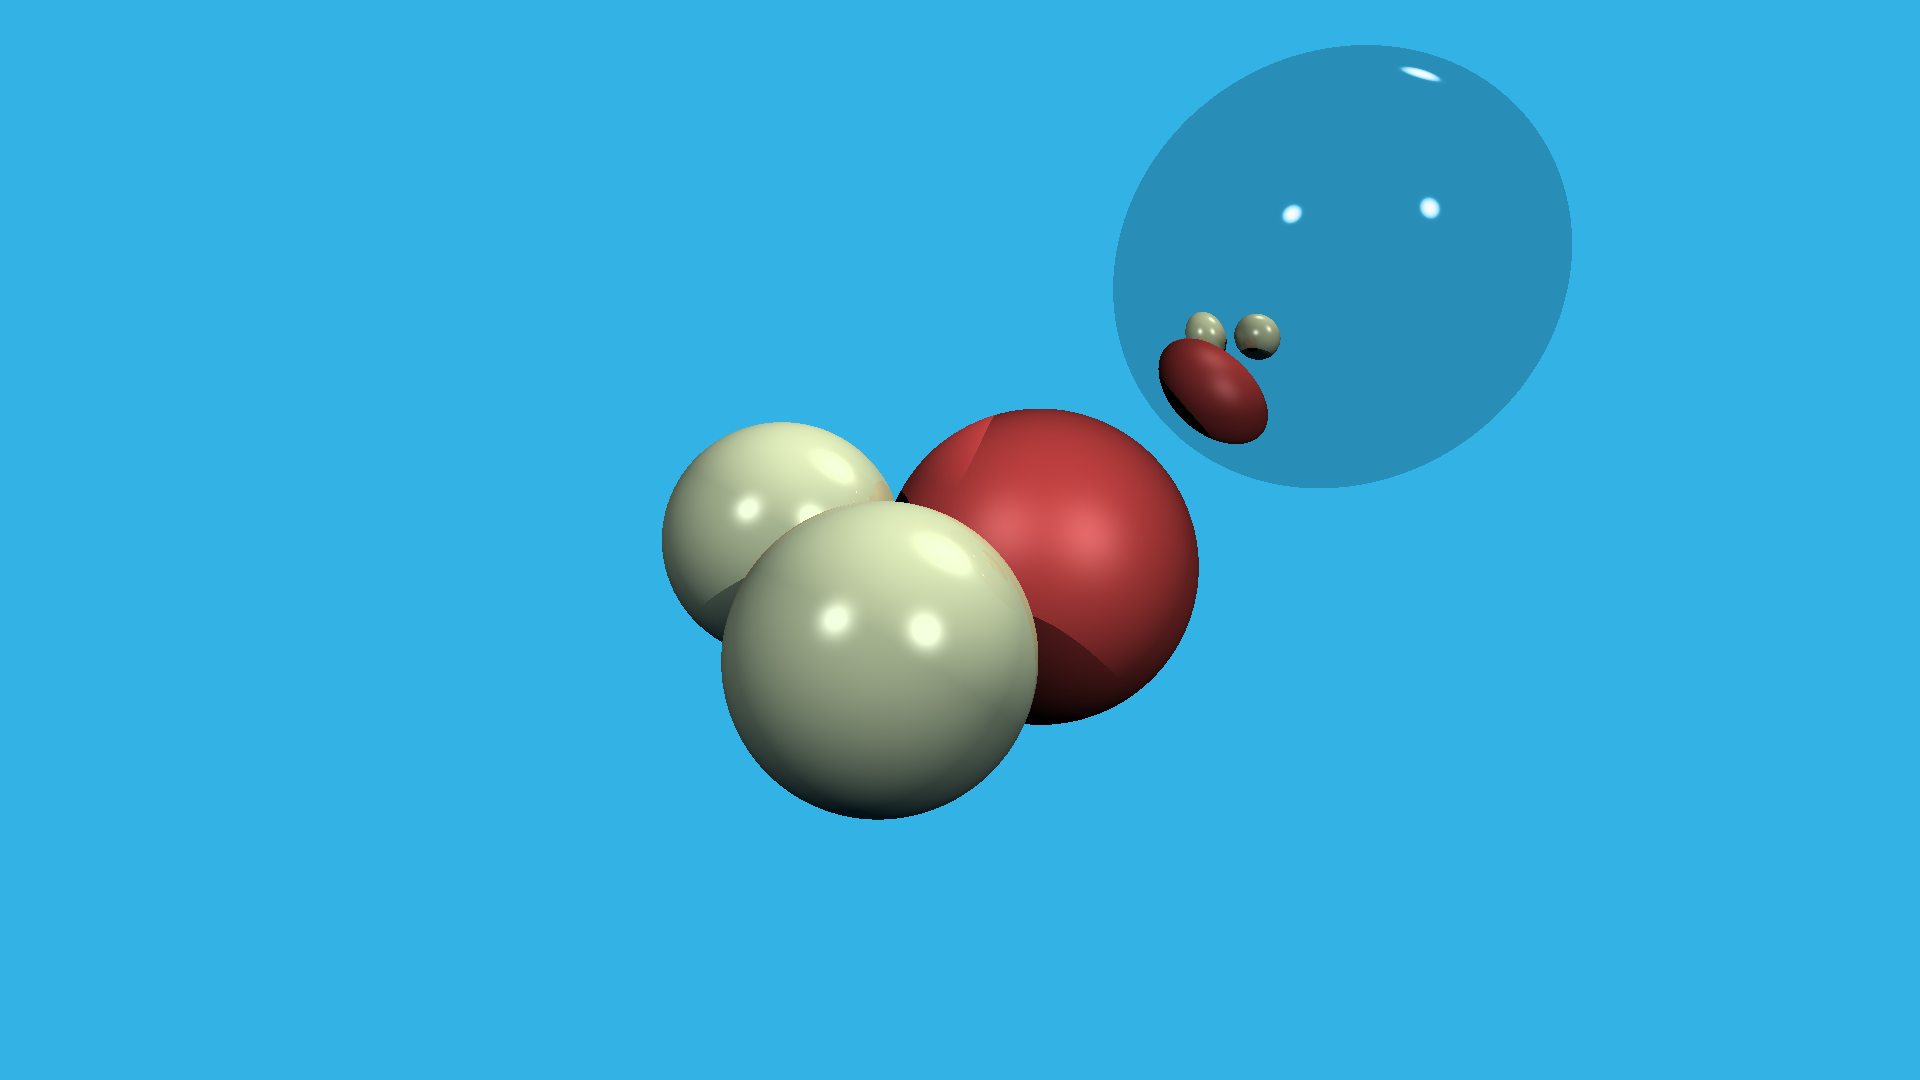
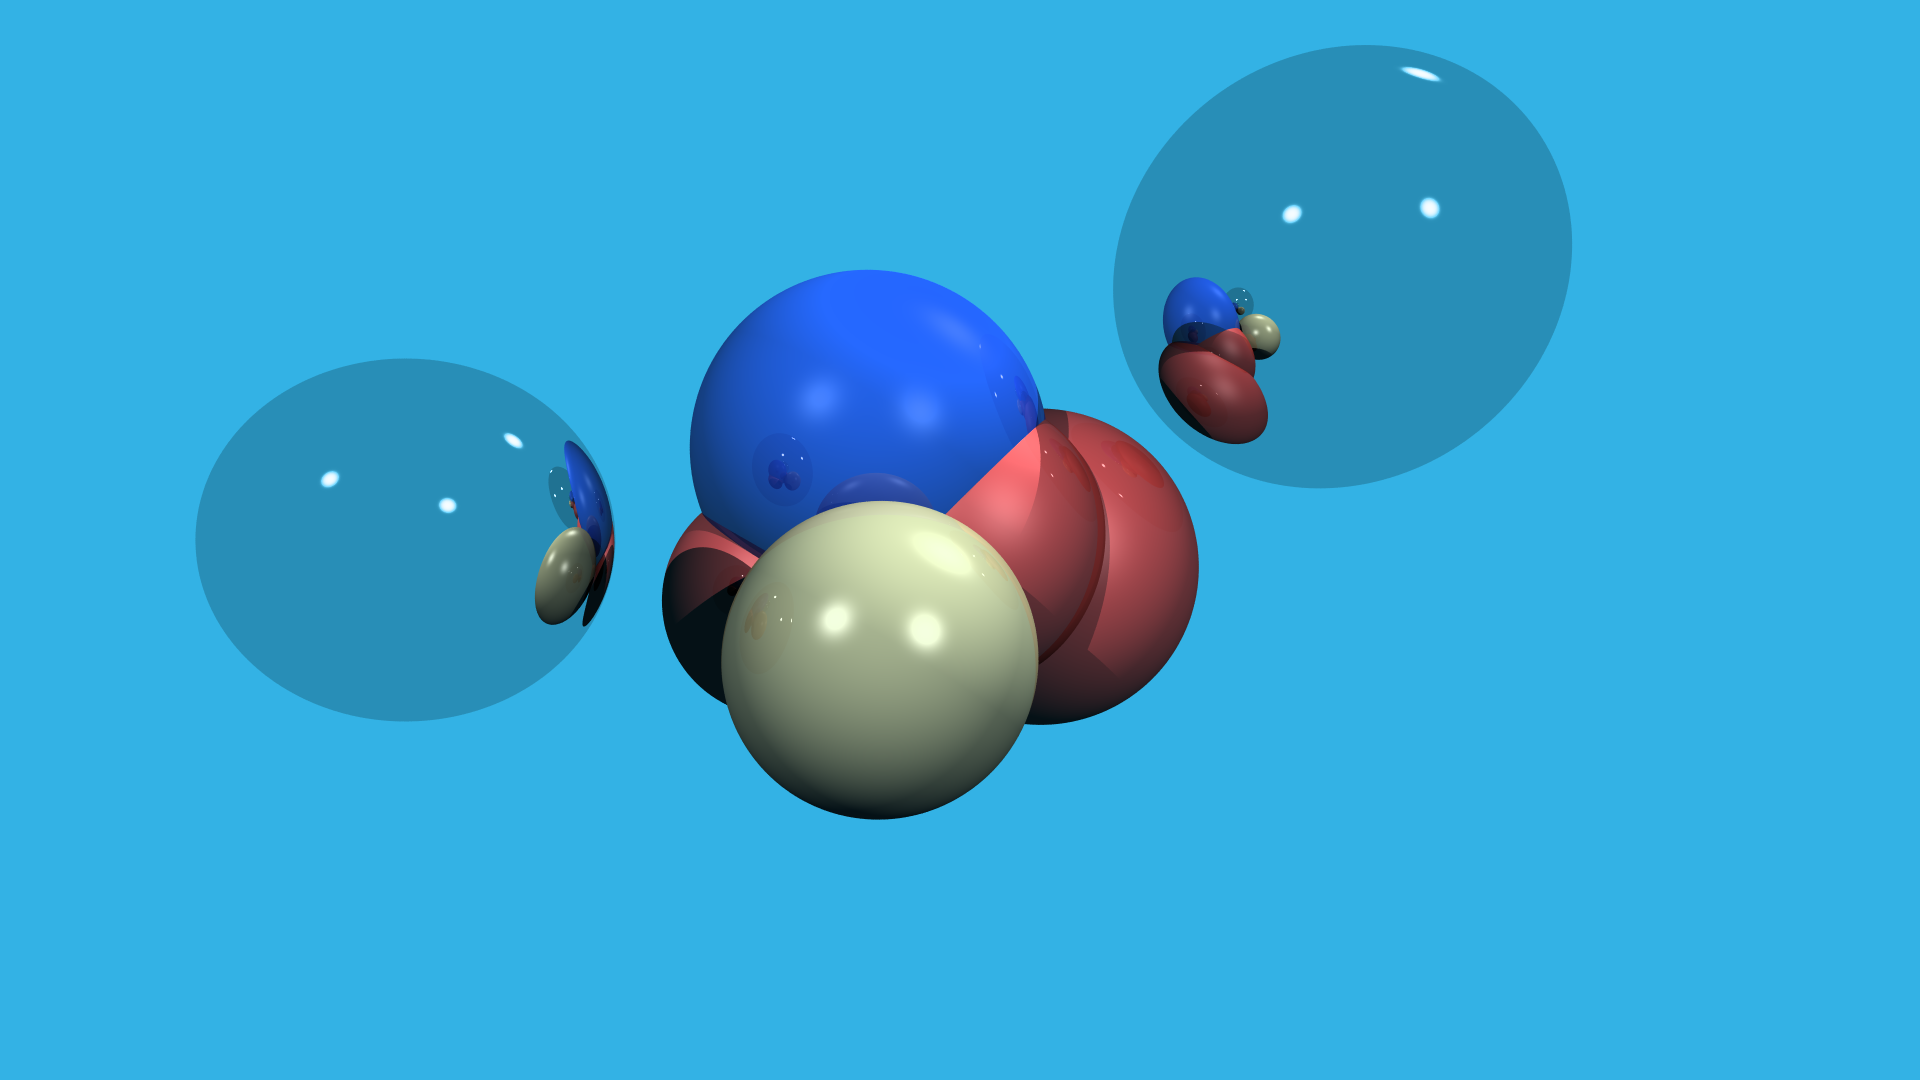
Implemented anti-aliazing (last commit failed)

Changed region(s): [[0.0938, 0.2444, 0.5938, 0.6722], [0.5938, 0.2444, 0.6562, 0.3361]]

diff --git a/src/lib/scene.rs b/src/lib/scene.rs
@@ -1,4 +1,13 @@
 use std::fs;
+// For reading and opening files
+use std::path::Path;
+use std::fs::File;
+use std::io::BufWriter;
+
+
+use png;
+use rand::Rng;
+
 
 use crate::lib::{
     vec3::Vec3,
@@ -11,6 +20,7 @@ pub struct Scene {
     width: usize,
     height: usize,
     rays_origin: Vec3,
+    rays_per_pixel: usize,
     max_recurtion: usize,
     fov: f64,
     objects: Vec<Box<dyn Hitable + Sync>>,
@@ -18,11 +28,12 @@ pub struct Scene {
 }
 
 impl Scene {
-    pub fn new(width: usize, height: usize, rays_origin: Vec3, max_recurtion: usize, fov: f64) -> Scene {
+    pub fn new(width: usize, height: usize, rays_origin: Vec3, rays_per_pixel: usize, max_recurtion: usize, fov: f64) -> Scene {
         Scene {
             width,
             height,
             rays_origin,
+            rays_per_pixel,
             max_recurtion,
             fov,
             objects: vec![],
@@ -38,23 +49,67 @@ impl Scene {
         self.lights.push(light)
     }
 
-    pub fn render(&self, path: &str) {
-        let mut buffer = format!("P3\n{} {}\n255\n", self.width, self.height);
+    pub fn render_as_png(&self, path: &str) {
+        let data = self.render();
 
+        let path = Path::new(path);
+        let file = File::create(path).unwrap();
+        let ref mut w = BufWriter::new(file);
+
+        let mut encoder = png::Encoder::new(w, self.width as u32, self.height as u32); 
+        encoder.set_color(png::ColorType::RGB);
+        encoder.set_depth(png::BitDepth::Eight);
+        let mut writer = encoder.write_header().unwrap();
+
+        writer.write_image_data(&data).unwrap();
+    }
+
+    pub fn render_as_ppm(&self, path: &str) {
+        let data = self.render();
+        let mut buffer = format!("P3\n{} {}\n255\n", self.width, self.height);
+        let _: Vec<_> = data.chunks(3).map(|chunk| buffer.push_str(format!(
+                "{} {} {}\n", 
+                chunk[0], 
+                chunk[1], 
+                chunk[2]
+            ).as_str())).collect();
+
+        fs::write(path, buffer).expect("Unable to find file location");
+    }
+
+    fn render(&self) -> Vec<u8> {
+        let mut data = vec![0; 0];
+        
+        let half_fov_tan = (self.fov / 2.0).tan();
         for j in 0..self.height {
             if (self.height - j) % 5 == 0 {
                 println!("{} rows remaining", self.height - j);
             }
             
             for i in 0..self.width {
-                let x = (2.0 * (i as f32 + 0.5) / self.width as f32 - 1.0) * (self.fov / 2.0).tan() as f32 * self.width as f32 / self.height as f32; 
-                let y = -(2.0 * (j as f32 + 0.5) / self.height as f32 - 1.0) * (self.fov / 2.0).tan() as f32; 
-                let dir = Vec3::new(x, y, -1.0).normalize();
-                let ray = Ray::new(self.rays_origin.clone(), dir);
-                buffer.push_str(self.cast_ray(&ray, 0).get_color().as_str()); 
+                let mut color = Vec3::new(0.0, 0.0, 0.0);
+                
+                for _ in 0..self.rays_per_pixel {
+                    let mut rng = rand::thread_rng();
+                    let rand_x: f32 = rng.gen(); 
+                    let rand_y: f32 = rng.gen(); 
+
+                    let x = (2.0 * (i as f32 + rand_x)  as f32/ self.width as f32 - 1.0) * half_fov_tan as f32 * self.width as f32 / self.height as f32; 
+                    let y = -(2.0 * (j as f32 + rand_y) as f32 / self.height as f32 - 1.0) * half_fov_tan as f32; 
+
+                    let dir = Vec3::new(x, y, -1.0).normalize();
+                    let ray = Ray::new(self.rays_origin.clone(), dir);
+
+                    color = color + self.cast_ray(&ray, 0);
+                }
+                let c = self.get_color(color);
+                
+                data.push(c[0]);
+                data.push(c[1]);
+                data.push(c[2]);    
             } 
         }
-        fs::write(path, buffer).expect("Unable to find file location");
+        data
     }
 
     fn cast_ray(&self, ray: &Ray, recurtion: usize) -> Vec3 { 
@@ -65,34 +120,9 @@ impl Scene {
         if recurtion > self.max_recurtion || closest.is_none() {
             return Vec3::new(0.2, 0.7, 0.9)
         }
-    
         let closest = closest.unwrap();
         let material = closest.material;
-        
-        // Reflection calculs
-        let reflect_dir = Self::reflect(&ray.direction, &closest.normal);
-    
-        let reflect_origin = if Vec3::dot(&reflect_dir, &closest.normal) > 0.0 {
-            &closest.hit_point + &closest.normal * 0.001
-        } else {
-            &closest.hit_point - &closest.normal * 0.001
-        };
-    
-        let reflect_ray = Ray::new(reflect_origin, reflect_dir);
-        let reflect_color = self.cast_ray(&reflect_ray, recurtion + 1);
-    
-        // Refraction calculs
-        let refract_dir = Self::refract(&ray.direction, &closest.normal, material.refraction_index).normalize();
-    
-        let refract_origin = if Vec3::dot(&refract_dir, &closest.normal) > 0.0 {
-            &closest.hit_point + &closest.normal * 0.001
-        } else {
-            &closest.hit_point - &closest.normal * 0.001
-        };
-    
-        let refract_ray = Ray::new(refract_origin, refract_dir);
-        let refract_color = self. cast_ray(&refract_ray, recurtion + 1);
-    
+
         let mut diffuse_light_intensity = 0.0;
         let mut specular_light_intensity = 0.0;
     
@@ -122,13 +152,42 @@ impl Scene {
     
             // Specular lightning calculs
             let specular_reflect_dir = Self::reflect(&light_dir, &closest.normal);
-            specular_light_intensity += (Vec3::dot(&specular_reflect_dir, &ray.direction)).max(0.0).powf(material.specular_exponent) * light.intensity;
-    
-            
+            specular_light_intensity += (Vec3::dot(&specular_reflect_dir, &ray.direction)).max(0.0).powf(material.specular_exponent) * light.intensity;   
         }
+        
+        // Reflection calculs
+        let reflect_dir = Self::reflect(&ray.direction, &closest.normal);
+    
+        let reflect_origin = if Vec3::dot(&reflect_dir, &closest.normal) > 0.0 {
+            &closest.hit_point + &closest.normal * 0.001
+        } else {
+            &closest.hit_point - &closest.normal * 0.001
+        };
+    
+        let reflect_ray = Ray::new(reflect_origin, reflect_dir);
+        let reflect_color = self.cast_ray(&reflect_ray, recurtion + 1);
+    
+
+        // Refraction calculs
+        let refract_dir = Self::refract(&ray.direction, &closest.normal, material.refraction_index).normalize();
+    
+        let refract_origin = if Vec3::dot(&refract_dir, &closest.normal) > 0.0 {
+            &closest.hit_point + &closest.normal * 0.001
+        } else {
+            &closest.hit_point - &closest.normal * 0.001
+        };
+    
+        let refract_ray = Ray::new(refract_origin, refract_dir);
+        let refract_color = self. cast_ray(&refract_ray, recurtion + 1);
+        
+
+        //let mut returned_color = material.color;
+
+
         material.color * diffuse_light_intensity * material.albedo[0] + Vec3::new(1.0, 1.0, 1.0) * specular_light_intensity * material.albedo[1] + reflect_color * material.albedo[2] + refract_color * material.albedo[3]
     }
 
+    
     
     fn reflect(impident: &Vec3, normal: &Vec3) -> Vec3 {
         impident - normal * 2.0 * Vec3::dot(impident, normal)
@@ -150,5 +209,22 @@ impl Scene {
             return impident * eta + n * (eta * cosi - k.sqrt())
         }
         Vec3::new(0.0, 0.0, 0.0)
+    }
+    
+    fn get_color(&self, color: Vec3) -> [u8; 3] {
+        let max = color.x.max(color.y.max(color.z));
+        
+        let mut return_value = color;
+        if max > self.rays_per_pixel as f32 {
+            return_value = return_value * (self.rays_per_pixel as f32 / max) 
+        }
+
+        let scale = 1.0 / self.rays_per_pixel as f32;
+
+        let r = (((return_value.x.min(self.rays_per_pixel as f32)).max(0.0) * 255.0) * scale) as u8;
+        let g = (((return_value.y.min(self.rays_per_pixel as f32)).max(0.0) * 255.0) * scale) as u8;
+        let b = (((return_value.z.min(self.rays_per_pixel as f32)).max(0.0) * 255.0) * scale) as u8;
+
+        [r, g, b]
     }
 }

diff --git a/src/main.rs b/src/main.rs
@@ -1,4 +1,4 @@
-use std::{time::SystemTime};
+use std::time::SystemTime;
 
 pub mod lib;
 
@@ -10,21 +10,22 @@ use lib::{
     sphere::Sphere
 };
 
-// The dimensions of the image 
 #[cfg(debug_assertions)] 
 const WIDTH: usize = 600;
 #[cfg(debug_assertions)] 
 const HEIGHT: usize = 300;
+#[cfg(debug_assertions)]
+const RAYS_PER_PIXEL: usize = 1;
 
 #[cfg(not(debug_assertions))]
 const WIDTH: usize = 1920;
 #[cfg(not(debug_assertions))]
 const HEIGHT: usize = 1080;
+#[cfg(not(debug_assertions))]
+const RAYS_PER_PIXEL: usize = 100;
 
-// Field of view 
 const FOV: f64 = std::f64::consts::PI / 3.0;
 
-// The origin of the firsts rays (camera)
 const ORIGIN: Vec3 = Vec3 {
     x: 0.0,
     y: 0.0,
@@ -37,11 +38,10 @@ fn main() {
     let glass = Material::new(Vec3::new(0.6, 0.7, 0.8), [0.0, 0.5, 0.1, 0.8], 1.5, 125.0);
     let mirror = Material::new(Vec3::new(1.0, 1.0, 1.), [0.0, 10.0, 0.8, 0.0], 1.0, 1425.0);
     let ivory = Material::new(Vec3::new(0.4, 0.4, 0.3), [0.6, 0.3, 0.1, 0.0], 1.0, 50.0);
-    let red_rubber = Material::new(Vec3::new(0.3, 0.1, 0.1), [0.9, 0.1, 0.0, 0.0], 1.0, 10.0);
-    let blue = Material::new(Vec3::new(0.1, 0.0, 0.5), [0.9, 0.1, 0.2, 0.0], 1.0, 40.0);
+    let red_rubber = Material::new(Vec3::new(0.3, 0.1, 0.1), [0.9, 0.1, 0.1, 0.0], 1.0, 10.0);
+    let blue = Material::new(Vec3::new(0.04, 0.1, 0.3), [0.9, 0.1, 0.2, 0.0], 1.0, 40.0);
 
     let spheres = vec![
-        //Sphere::new(Vec3::new(-6.0, 0.0 , -10.5) , 3.0, glass.clone()),
         Sphere::new(Vec3::new(-3.0, 0.0 , -16.0) , 2.0, ivory.clone()),
         Sphere::new(Vec3::new(-1.0, -1.5, -12.0) , 2.0, ivory.clone()),
         Sphere::new(Vec3::new(1.5 , -0.5, -18.0) , 3.0, red_rubber.clone()),
@@ -54,7 +54,7 @@ fn main() {
         Light::new(Vec3::new(30.0, 20.0, 30.0) , 1.7)
     ];
 
-    let mut scene = Scene::new(WIDTH, HEIGHT, ORIGIN, MAX_RECURTION, FOV);
+    let mut scene = Scene::new(WIDTH, HEIGHT, ORIGIN, RAYS_PER_PIXEL, MAX_RECURTION, FOV);
 
     scene.push_object(spheres[0].clone());
     scene.push_object(spheres[1].clone());
@@ -68,7 +68,8 @@ fn main() {
 
     let start = SystemTime::now();
     
-    scene.render("output.ppm");
+    scene.render_as_png("output.png");
+    //scene.render_as_ppm("output.ppm");
 
     if let Ok(time) = start.elapsed() {
         println!("Done in {:?}", time)

diff --git a/src/lib/vec3.rs b/src/lib/vec3.rs
@@ -39,25 +39,6 @@ impl Vec3 {
     pub fn normalize(&self) -> Vec3 {
         self / self.lenght()
     }
-
-    pub fn get_color(&self) -> String {
-        let max = self.x.max(self.y.max(self.z));
-        
-        let mut return_value = self.clone();
-        if max > 1.0 {
-            return_value = self * (1.0 / max) 
-        }
-
-        let x = (return_value.x.min(1.0)).max(0.0) * 255.0;
-        let y = (return_value.y.min(1.0)).max(0.0) * 255.0;
-        let z = (return_value.z.min(1.0)).max(0.0) * 255.0;
-        format!(
-            "{} {} {}\n",
-            x as u32,
-            y as u32,
-            z as u32
-        )
-    }
 }
 
 impl Add for Vec3 {
